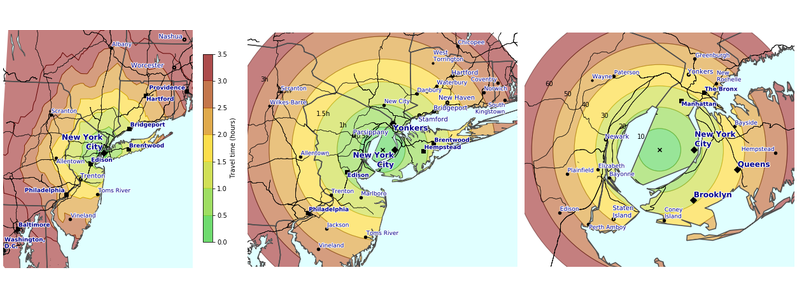
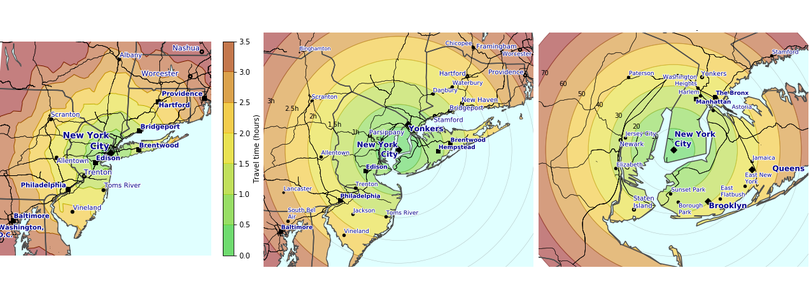
small changes to index

diff --git a/index.md b/index.md
@@ -6,18 +6,25 @@ header:
   caption: "Photo credit: [Simon Matzinger on **Unsplash**](https://unsplash.com/photos/twukN12EN7c)"
 
 feature_row:
-  - image_path: /assets/images/chronomaps/chronomap_NY_combined.png
+  - image_path: /assets/images/teasers/chronomaps.png
     alt: "NYC chronomap"
     title: "Chronomaps"
     excerpt: "Create maps based on travel times instead of distances."
     url: "chronomaps/"
     btn_label: "Read More"
     btn_class: "btn--primary"
-  - image_path: assets/images/teasers/election_county_map_carto.png
+  - image_path: /assets/images/teasers/election_county_map_carto.png
     alt: "2016 election map and cartogram"
     title: "Cartograms of US elections"
     excerpt: "Visualize county-level US election results, make *cartograms* based on county population."
     url: "cartograms/"
+    btn_label: "Read More"
+    btn_class: "btn--primary"
+  - image_path: assets/images/teasers/LHCra.png
+    alt: "Rectangular aggregations at the LHC"
+    title: "Rectangular aggregations at the LHC"
+    excerpt: "Data mining algorithm for statistically significant excesses in high-dimensional LHC datasets."
+    url: "LHC_rectangular_aggregation"
     btn_label: "Read More"
     btn_class: "btn--primary"
 
